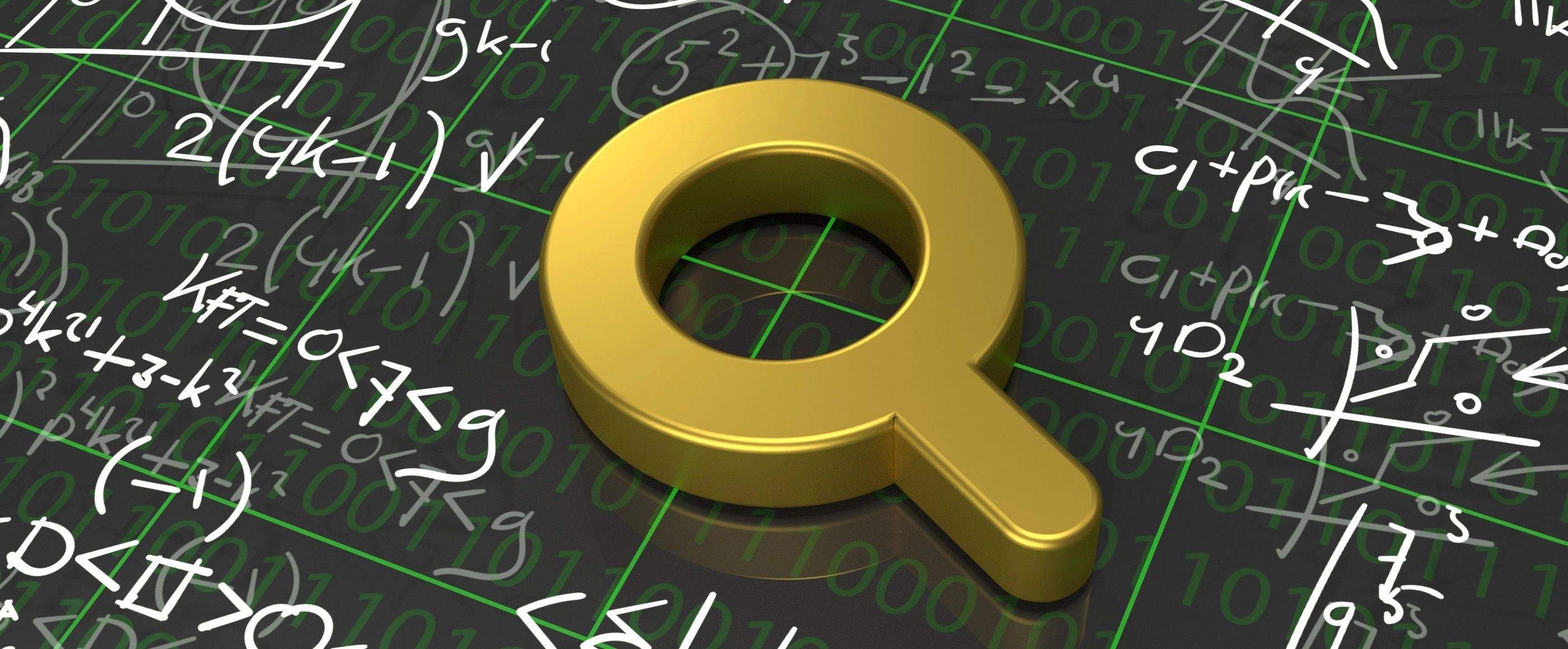
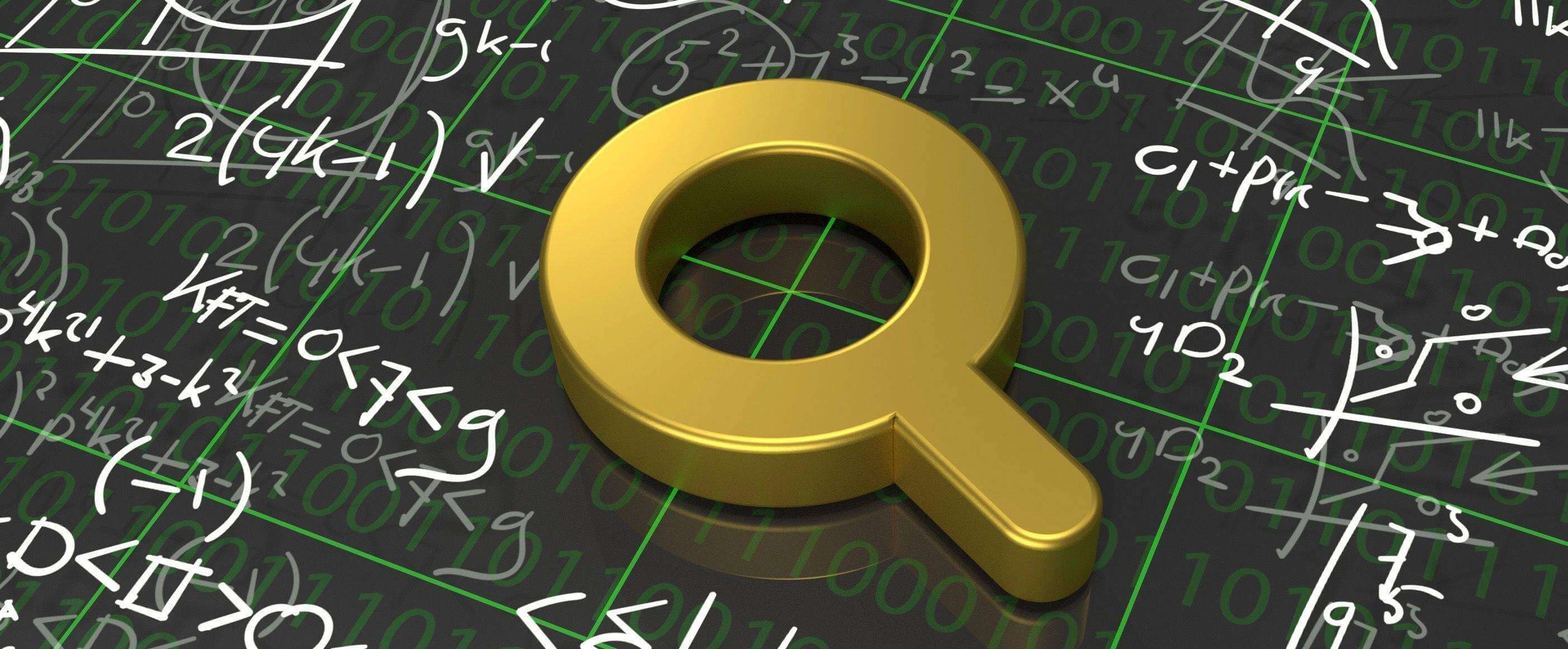
- 增加文章 - 压缩图片

diff --git a/source/_posts/2020-10-22-data-structure-alignment.md b/source/_posts/2020-10-22-data-structure-alignment.md
@@ -1,0 +1,148 @@
+---
+title: C/C++内存对齐讲解
+date: 2020-10-22 13:07:07
+tags:
+- C++
+- 内存对齐
+categories: C++
+image: img/category/cpp.png
+keywords: [内存对齐, 对齐系数]
+description: 本文讲述了C/C++中数据结构的内存对齐有关的知识，并结合代码运行的结果讲解。
+---
+## 1. 为什么需要内存对齐
+内存对齐是C语言编译器对数据在内存存放位置的一种特殊处理，需要内存对齐主要有两个原因：
+- 因为C语言可以应用在很多架构的CPU中，而不同平台的CPU对内存读取的要求都不同，有些平台只支持在特殊的位置读取特殊的变量，一旦内存没有对齐，可能会直接抛出硬件异常，于是编译器会对结构体数据在内存中存放的位置按一定的规则进行排布，以适应特殊平台上的要求。
+- 对于某些特殊的数据结构，比如栈结构，需要连续的存储单元进行存储，如果内存没有对齐，寄存器读取一个数据需要两次读取操作，而内存对齐后只需要读取一次即可。
+
+## 2. 对齐规则
+每一种编译器都会定义自己的“对齐系数”（或称“对齐模数”），程序可使用预编译命令#pragma pack(n)命令来指定编译器的对齐系数，n=1,2,4,8,16等等。
+
+- 对于结构体(struct)或联合(union)的成员，**第1个数据成员的偏移量固定为0，其他数据成员根据每个数据成员自身的数据长度和#pragma pack指定的对齐系数中较小的一方进行内存对齐**，比如int类型的数据成员占用4字节长度，而对齐系数为2，则按照对齐系数2进行内存对齐，int类型的地址偏移量需要是2的倍数。
+- 结构体（或联合）的数据成员进行对齐之后，结构体（或联合）本身也需要进行内存对齐，**根据结构体（或联合）中最大长度的数据成员的长度和#pragma pack指定的对齐系数中较小的一方进行内存对齐**。结构体的大小（可用sizeof()函数获取）须为最大长度数据成员的长度的整数倍，当不足这个长度时会自动在最后填充字节扩充长度。
+- 如果#pragma pack指定的对齐系数大于每一个数据成员的长度，那么指定的对齐系数将不起效
+
+## 3. 代码实验
+本次代码在macOS Catalina 10.15.6上使用g++命令编译，版本信息如下
+- Apple clang version 12.0.0 (clang-1200.0.32.2)
+- Target: x86_64-apple-darwin19.6.0
+``` cpp
+#include<iostream>
+using namespace std;
+
+#pragma pack(1)
+// #pragma pack(2)
+// #pragma pack(4)
+// #pragma pack(8)
+// #pragma pack(16)
+struct test{
+    short a;
+    char b;
+    int c;
+    double d;
+    int e[7];
+};
+#pragma pack()
+
+int main()
+{
+    cout << "size of short = " << sizeof(short) << endl;
+    cout << "size of char = " << sizeof(char) << endl;
+    cout << "size of int = " << sizeof(int) << endl;
+    cout << "size of double = " << sizeof(double) << endl;
+    cout << "size of test = " << sizeof(test) << endl;
+}
+```
+- 注意#pragma pack()命令只对接下来定义的结构生效，如果将其置于代码首行则include进来的iostream等等模块都会受到影响，从而运行报错，所以要将其置于stuct的上一行。定义完后需要用#pragma pack()恢复默认对齐系数。
+
+- 输出各类型的长度为：
+>   size of short = 2
+    size of char = 1
+    size of int = 4
+    size of double = 8
+
+- #pragma pack(1)对齐情况：
+>   size of test = 43
+
+    分析：
+    + 数据成员对齐：
+        对齐系数n=1;
+        short a: 长度2>1，按1对齐；0%1=0，起始偏移0; 存放区间[0, 1];
+        char b: 长度1==1，按1对齐；2%1=0，起始偏移2；存放区间[2];
+        int c: 长度4>1，按1对齐；3%1=0，起始偏移3；存放区间[3, 6];
+        double d: 长度8>1，按1对齐；7%1=0，起始偏移7；存放区间[7, 14];
+        int e[7]: 长度7*4=28>1，按1对齐；15%1=0，起始偏移15；存放区间[15, 42];
+        数据长度43
+
+    + 结构体对齐：
+        结构体长度基数 = min(max(short, char, int, double, int e[7]), 1) = 1
+        43 % 1 = 0，于是结构体长度为43.
+
+- #pragma pack(2)对齐情况：
+>   size of test = 44
+
+    分析：
+    + 数据成员对齐：
+        对齐系数n=2;
+        short a: 长度2==2，按2对齐；0%2=0，起始偏移0; 存放区间[0, 1];
+        char b: 长度1<2，按1对齐；2%1=0，起始偏移2；存放区间[2];
+        int c: 长度4>2，按2对齐；4%2=0，起始偏移4；存放区间[4, 7];
+        double d: 长度8>2，按2对齐；8%2=0，起始偏移8；存放区间[8, 15];
+        int e[7]: 长度7*4=28>2，按2对齐；16%2=0，起始偏移16；存放区间[16, 43];
+        数据长度44
+
+    + 结构体对齐：
+        结构体长度基数 = min(max(short, char, int, double, int e[7]), 2) = 2
+        44 % 2 = 0，于是结构体长度为44.
+
+- #pragma pack(4)对齐情况：
+>   size of test = 44
+
+    分析：
+    + 数据成员对齐：
+        对齐系数n=4;
+        short a: 长度2<4，按2对齐；0%2=0，起始偏移0; 存放区间[0, 1];
+        char b: 长度1<4，按1对齐；2%1=0，起始偏移2；存放区间[2];
+        int c: 长度4==4，按4对齐；4%4=0，起始偏移4；存放区间[4, 7];
+        double d: 长度8>4，按4对齐；8%4=0，起始偏移8；存放区间[8, 15];
+        int e[7]: 长度7*4=28>4，按4对齐；16%4=0，起始偏移16；存放区间[16, 43];
+        数据长度44
+
+    + 结构体对齐：
+        结构体长度基数 = min(max(short, char, int, double, int e[7]), 4) = 4
+        44 % 4 = 0，于是结构体长度为44.
+
+- #pragma pack(8)对齐情况：
+>   size of test = 48
+
+    分析：
+    + 数据成员对齐：
+        对齐系数n=8;
+        short a: 长度2<8，按2对齐；0%2=0，起始偏移0; 存放区间[0, 1];
+        char b: 长度1<8，按1对齐；2%1=0，起始偏移2；存放区间[2];
+        int c: 长度4<8，按4对齐；4%4=0，起始偏移4；存放区间[4, 7];
+        double d: 长度8==8，按8对齐；8%8=0，起始偏移8；存放区间[8, 15];
+        int e[7]: 长度7*4=28>8，按8对齐；16%8=0，起始偏移16；存放区间[16, 43];
+        数据长度44
+
+    + 结构体对齐：
+        结构体长度基数 = min(max(short, char, int, double, int e[7]), 8) = 8
+        48 % 8 = 0，于是结构体长度为48，此时自动在最后一个数据成员后面填充了48-44=4个字节的无用数据
+
+- #pragma pack(16)对齐情况：
+>   size of test = 48
+
+    分析：
+    + 数据成员对齐：
+        对齐系数n=16;
+        short a: 长度2<16，按2对齐；0%2=0，起始偏移0; 存放区间[0, 1];
+        char b: 长度1<16，按1对齐；2%1=0，起始偏移2；存放区间[2];
+        int c: 长度4<16，按4对齐；4%4=0，起始偏移4；存放区间[4, 7];
+        double d: 长度8<16，按8对齐；8%8=0，起始偏移8；存放区间[8, 15];
+        int e[7]: 长度7*4=28>16，按16对齐；16%16=0，起始偏移16；存放区间[16, 43];
+        数据长度44
+
+    + 结构体对齐：
+        结构体长度基数 = min(max(short, char, int, double, int e[7]), 16) = 16
+        48 % 16 = 0，于是结构体长度为48，此时自动在最后一个数据成员后面填充了48-44=4个字节的无用数据
+
+可以看出，指定不同的对齐系数所得出的结构体的大小信息都不一样，笔试和面试当中都可能问到结构体的大小问题，大家要根据内存对齐的规则分析数据大小和结构体大小才能得出正确的结论哦。
